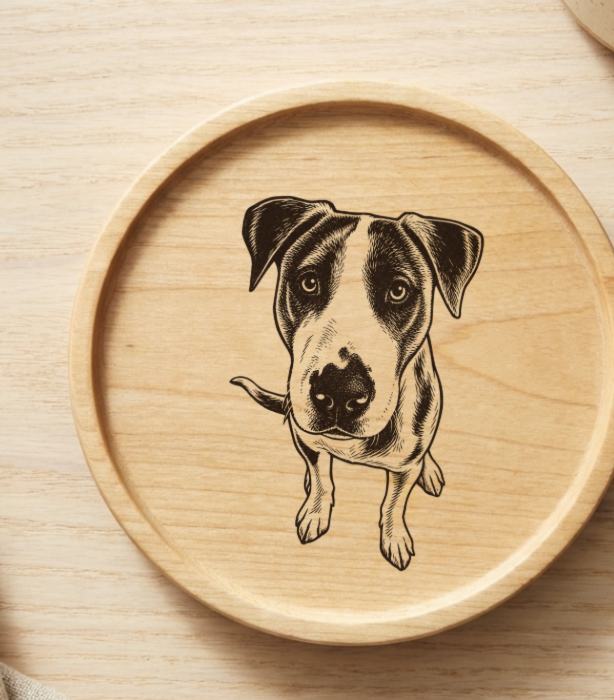
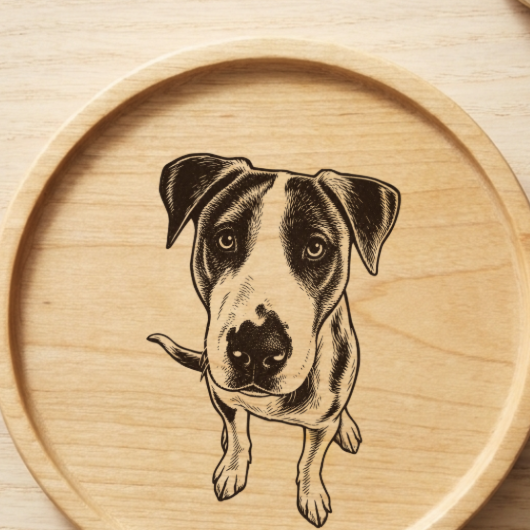
Flip pipeline arrows to point at Milo, stop clipping, center the coaster
- Flip the swoosh vertically (scaleY -1) so the arrowhead points down at
  the next image instead of up into the space above it
- Layer card z-index and widen the column gap so the connector is never
  clipped by the next (opaque) image and mostly sits in the gap
- Re-crop milo-3-coaster centered on the engraving so the dog sits dead
  center on the coaster

https://claude.ai/code/session_01D858aeMyuyLYGjafmjHYpZ

diff --git a/styles.css b/styles.css
@@ -299,11 +299,11 @@ a { color: inherit; }
 /* ---------- pipeline ---------- */
 .pipeline { padding: clamp(64px, 9vw, 110px) 0; }
 .pipe-grid {
-  --pgap: clamp(28px, 5vw, 76px);
+  --pgap: clamp(40px, 6.5vw, 112px);
   display: grid; grid-template-columns: repeat(3, 1fr);
   gap: var(--pgap); align-items: start; margin-top: 48px;
 }
-.pipe-card { margin: 0; }
+.pipe-card { margin: 0; position: relative; }
 .pipe-card figcaption {
   margin-top: 16px;
   font-family: var(--display); font-size: clamp(1.05rem, 1.8vw, 1.35rem);
@@ -323,14 +323,20 @@ a { color: inherit; }
   object-fit: cover; border-radius: 14px;
 }
 
-/* swoosh connector: locked to the image's vertical center, sized big,
-   sitting in the gap between cards (overflows the square to the right) */
+/* swoosh connector: locked to the image's vertical center, sitting in the
+   gap; flipped vertically (scaleY -1) so the arrowhead points down at the
+   next image instead of up into the space above it */
 .pipe-arrow {
   position: absolute; top: 50%; left: 100%;
-  transform: translate(calc(var(--pgap) / 2 - 50%), -50%);
+  transform: translate(calc(var(--pgap) / 2 - 50%), -50%) scaleY(-1);
   width: clamp(72px, 9vw, 132px); height: auto;
-  pointer-events: none;
+  pointer-events: none; z-index: 4;
 }
+/* earlier cards stack above later ones so a connector is never clipped by
+   the next (opaque) image — its head can ride onto the next card */
+.pipe-card:nth-of-type(1) { z-index: 3; }
+.pipe-card:nth-of-type(2) { z-index: 2; }
+.pipe-card:nth-of-type(3) { z-index: 1; }
 
 /* ---------- faq ---------- */
 .faq { padding: 0 0 clamp(64px, 9vw, 110px); }
